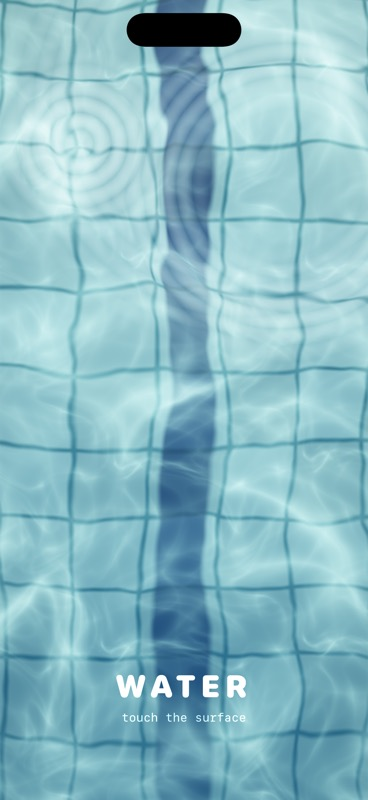
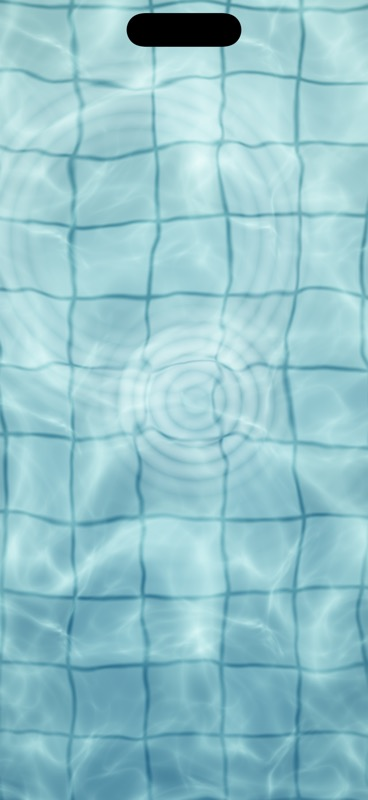
Water: remove lane stripe and text labels

diff --git a/water/Sources/WaterApp.swift b/water/Sources/WaterApp.swift
@@ -35,20 +35,6 @@ struct ContentView: View {
         }
         .ignoresSafeArea()
         .background(.black)
-        .overlay(alignment: .bottom) {
-            VStack(spacing: 6) {
-                Text("WATER")
-                    .font(.system(size: 34, weight: .black, design: .rounded))
-                    .kerning(6)
-                Text("touch the surface")
-                    .font(.system(.footnote, design: .monospaced))
-                    .opacity(0.6)
-            }
-            .foregroundStyle(.white)
-            .blendMode(.plusLighter)
-            .padding(.bottom, 48)
-            .allowsHitTesting(false)
-        }
         .statusBarHidden()
     }
 }

diff --git a/water/README.md b/water/README.md
@@ -1,9 +1,8 @@
 # Water 💧
 
-A sunlit swimming-pool lane rendered by **one SwiftUI modifier** and **one Metal shader**.
-Ambient waves refract the tile floor and the dark lane line, sunlight caustics
-dance across them, raindrops ring the surface, and touching it sends ripples
-out from your finger.
+A sunlit pool rendered by **one SwiftUI modifier** and **one Metal shader**.
+Ambient waves refract the tile floor, sunlight caustics dance across it,
+raindrops ring the surface, and touching it sends ripples out from your finger.
 
 ![screenshot](screenshot.jpg)
 

diff --git a/README.md b/README.md
@@ -16,7 +16,7 @@ Small, self-contained visual experiments for iOS. Every effect lives in its own 
 | Preview | Effect | Description |
 |---|---|---|
 | <a href="singularity/"><img src="singularity/screenshot.jpg" width="160"></a> | [**Singularity**](singularity/) | A procedural black-hole nebula: gravitational swirl + domain-warped fbm noise + event-horizon rim. Drag to bend spacetime. One `colorEffect` shader, iOS 17+. |
-| <a href="water/"><img src="water/screenshot.jpg" width="160"></a> | [**Water**](water/) | A sunlit swimming-pool lane: waves refract the tiles and lane line, caustics dance on top, raindrops ring the surface, and touching it sends out ripples. One `colorEffect` shader, iOS 17+. |
+| <a href="water/"><img src="water/screenshot.jpg" width="160"></a> | [**Water**](water/) | A sunlit pool: waves refract the tile floor, caustics dance on top, raindrops ring the surface, and touching it sends out ripples. One `colorEffect` shader, iOS 17+. |
 
 ## Running a demo
 